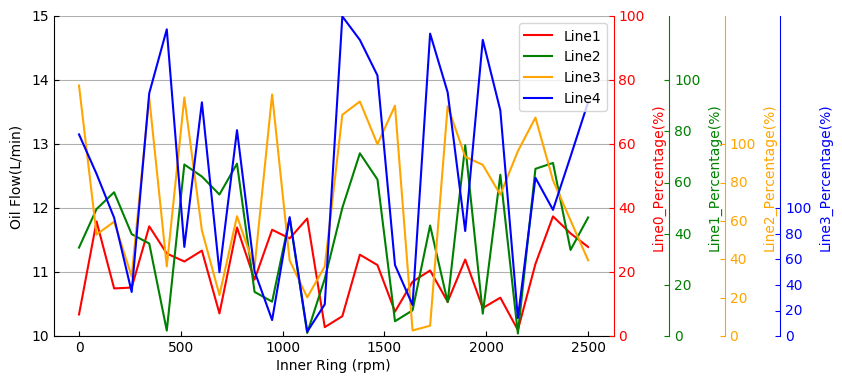
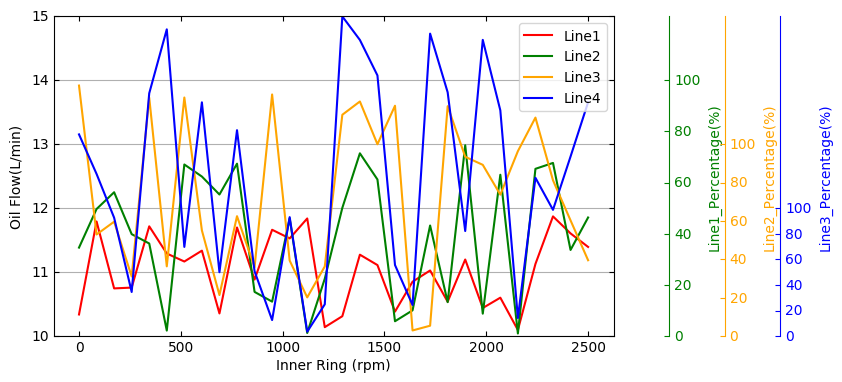
work done

diff --git a/parasite_func.py b/parasite_func.py
@@ -1,0 +1,80 @@
+import numpy as np
+import matplotlib.pyplot as plt
+from mpl_toolkits.axisartist import HostAxes, ParasiteAxes
+
+
+def multi_parasite_axes(x, data, total):
+    # color list
+    color_list = ['red', 'green', 'orange', 'deepskyblue', 'black', 'navy', 'pink', 'aqua']
+
+    # figure
+    fig = plt.figure(figsize=[8, 4])
+    # main axes location & size
+    ax_main = HostAxes(fig, [0.0, 0.0, 0.6, 0.8])
+    ax_main.set_ylabel('Oil Flow(L/min)')
+    ax_main.set_xlabel('Inner Ring (rpm)')
+
+    ax_list = []
+    _axis = []
+    for i in range(len(total)):
+        ax_list.append(ParasiteAxes(ax_main, sharex=ax_main))
+        ax_main.parasites.append(ax_list[i])
+        ax_list[i].set_ylabel('Percentage(%)')
+        if i:
+            _axis.append(ax_list[i].get_grid_helper().new_fixed_axis)
+            ax_list[i].axis[str(i)] = _axis[i-1](loc='right', axes=ax_list[i], offset=(60*i, 0))
+            ax_list[i].axis[str(i)].label.set_color(color_list[i])
+            ax_list[i].axis[str(i)].major_ticks.set_color(color_list[i])
+            ax_list[i].axis[str(i)].major_ticklabels.set_color(color_list[i])
+            ax_list[i].axis[str(i)].line.set_color(color_list[i])
+        else:
+            ax_list[i].axis['right'].label.set_color(color_list[i])
+            ax_list[i].axis['right'].major_ticks.set_color(color_list[i])
+            ax_list[i].axis['right'].major_ticklabels.set_color(color_list[i])
+            ax_list[i].axis['right'].line.set_color(color_list[i])
+
+    # invisible right axis of ax_cof
+    ax_main.axis['right'].set_visible(False)
+    ax_main.axis['top'].set_visible(False)
+    ax_list[0].axis['right'].set_visible(True)
+    ax_list[0].axis['right'].major_ticklabels.set_visible(True)
+    ax_list[0].axis['right'].label.set_visible(True)
+
+    # add axes to fig
+    fig.add_axes(ax_main)
+
+    # plot
+    for i in range(len(data)):
+        ax_main.plot(x, data[i], label='line' + str(i), color=color_list[i])
+
+    # set ylim
+    min_level = int(np.min(np.array(data)))
+    max_level = round(np.max(np.array(data)))
+    ax_main.set_ylim(min_level-0.5, max_level+0.5)
+    for i in range(len(total)):
+        ax_list[i].set_ylim(100 * (min_level-0.5)/total[i], 100 * (max_level+0.5)/total[i])
+        # ax_list[i].set_yticks(np.round(np.linspace(100 * min_level/total[i], 100, 5)))
+        y_ticks = [100 * (min_level-0.5) / total[i]]
+        for j in np.linspace(0, 100, 11):
+            if j > y_ticks[0] + 5:
+                y_ticks.append(j)
+        ax_list[i].set_yticks(np.round(np.array(y_ticks)))
+
+    # legend
+    ax_main.legend()
+
+    plt.grid(axis='y')
+    plt.savefig('fig_func.png', bbox_inches='tight')
+    plt.show()
+
+
+if __name__ == '__main__':
+    np.random.seed(2020)
+    # rand_data
+    rand_data = np.random.rand(4, 30)
+    arr_0 = list(rand_data[:][0] * 1 + 4)
+    arr_1 = list(rand_data[:][1] * 2 + 4)
+    arr_2 = list(rand_data[:][2] * 3 + 4)
+    arr_3 = list(rand_data[:][3] * 5 + 4)
+    rpms = np.linspace(1600, 2500, len(arr_0))
+    multi_parasite_axes(x=rpms, data=[arr_0, arr_1, arr_2, arr_3], total=[5, 6, 7, 9])
